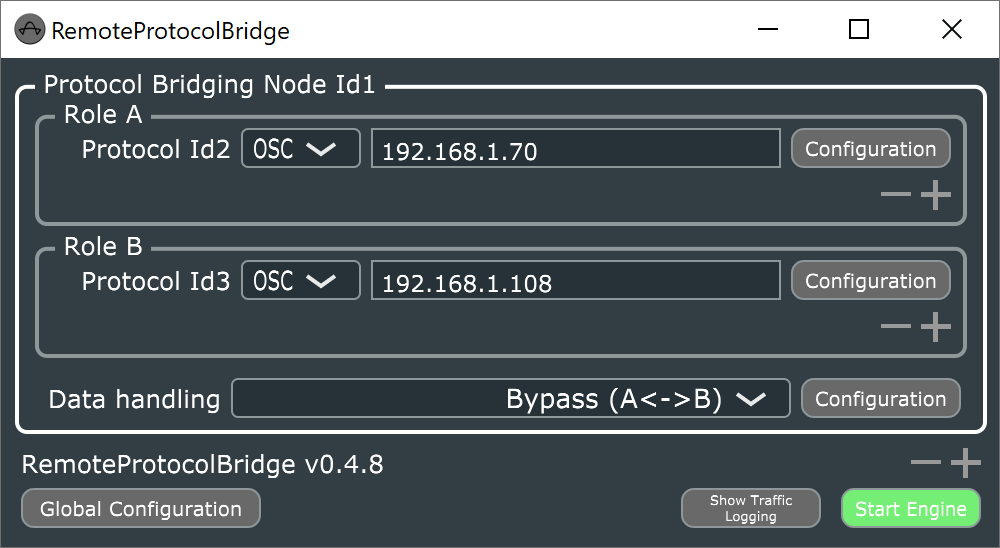
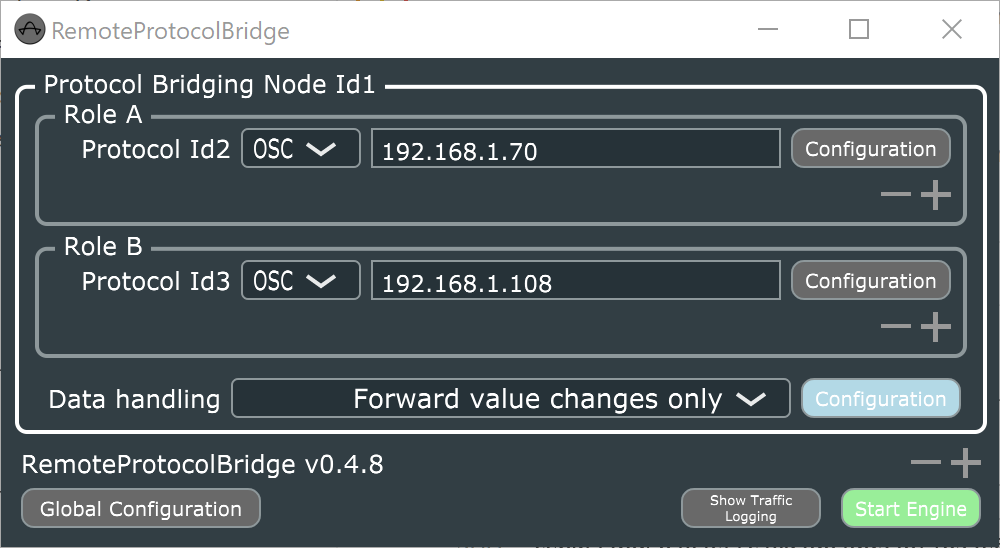
Modified guide content to cover 128ch cascade and dual DS100 failover use cases

diff --git a/README.md b/README.md
@@ -1,4 +1,4 @@
-# d&b Soundscape control with DiGiCo SD Consoles - Generic OSC 
+# **d&b Soundscape control with DiGiCo SD Consoles - Generic OSC**
 
 Copyright (C) 2017-2021, d&b audiotechnik GmbH & Co. KG
 
@@ -10,20 +10,22 @@ By downloading software from this site, you agree to the terms and conditions de
 
 <a name="toc" />
 
-## Table of contents
+## **Table of contents**
 
 * [Introduction](#introduction)
 * [Features](#features)
 * [Requirements](#requirements)
-* [Setting up Generic OSC for d&b Soundscape (stand alone)](#setupDigico)
-* [Enabling bidirectional communication for Generic OSC for Soundscape using the d&b Software bridge](#setupDigicoWithPollingBridge)
-* [Additional functions](#additionalFunctions)
+* [Setting up d&b Soundscape channel control](#setupDigico)
+* [Enabling bidirectional communication for d&b Soundscape channel control using the d&b Software bridge](#setupDigicoWithPollingBridge)
+  * [128 channel DS100 cascading](#128chCascade)
+  * [dual DS100 parallel](#dualDS100parallel)
+* [Additional functionality](#additionalFunctionality)
 * [Known issues](#knownIssues)
 
 
 <a name="introduction" />
 
-## Introduction
+## **Introduction**
 
 d&b Soundscape integration for DiGiCo consoles can be realized with the DiGiCo Generic OSC feature and the d&b Software bridge.
 
@@ -45,23 +47,23 @@ www.dbaudio.com and www.dbsoundscape.com.
 
 <a name="features" />
 
-## Features 
+## **Features**
 
-### Generic OSC functionality with d&b Soundscape
+### **Generic OSC functionality with d&b Soundscape**
 Control of the following d&b Soundscape parameters of the desired sound objects via the the console's channel strips 01-64.
 
 To handle these parameters, they can also be stored and recalled using the scene memory of the console.
 
-### En-Scene object parameters:
+### **En-Scene object parameters:**
 * X position (absolute or relative to a coordinate mapping)
 * Y position (absolute or relative to a coordinate mapping)
 * SPREAD
 * Delay mode
 
-### En-Space object parameters:
+### **En-Space object parameters:**
 * Reverb send level
 
-### Generic OSC functionality extended with the d&b Software bridge for d&b Soundscape
+### **Generic OSC functionality extended with the d&b Software bridge for d&b Soundscape**
 The d&b Software bridge extends the Generic OSC Soundscape integration with bidirectional communication between the DS100 and the console.
 
 The d&b Software bridge constantly polls the values of the parameters described above from the DS100 and sends them back to the DiGiCo Console. This means, the console status is constantly updated even if changes have been made to these object parameters using other controllers like R1, a show control system, touchscreen-devices, or similar.
@@ -71,34 +73,34 @@ As a result, a flexible workflow is maintained even in complex setups.
 
 <a name="requirements" />
 
-## Requirements
+## **Requirements**
 
 * Any DiGiCo SD Console with Generic OSC enabled.
 * d&b DS100 Signal Engine with active En-Scene and / or En-Space license.
 * Console and DS100 Signal Engine connected to the same Ethernet network (to establish OSC communication).
 * For bidirectional communication / workflow: Win or macOS PC running the d&b Software bridge. The PC must be connected to the same network. On Windows OS, the d&b Software bridge “RemoteProtocolbridge” requires installing the Visual C++ Redistributable Packages from Microsoft
 
-### Helpful / necessary documents: 
+### **Helpful / necessary documents:**
 OSC documentation of the DS100 which is available for download from the related DS100 product page at www.dbaudio.com.
 
 
 <a name="setupDigico" />
 
-## Setting up Generic OSC for d&b Soundscape (stand alone)
+## **Setting up d&b Soundscape channel control**
 
-### Set up Generic OSC and connect with DS100:
+### **Set up Generic OSC and connect with DS100:**
 * On the Master screen, select “Setup” and go to “External Control”.
 
-<img src="Resources/Documentation/Images/01.png" alt="DiGiCo Master Screen" width="50%">
+<img src="Resources/Documentation/Screenshots/01.png" alt="DiGiCo Master Screen" width="500px">
 
-### Switch on Generic OSC and select the correct mode for d&b Soundscape control
+### **Switch on Generic OSC and select the correct mode for d&b Soundscape control**
 * Switch Enable External Control to “YES”.
-* Switch Input Channel Controllers to “OSC-generic”.
+* Switch Input Channel Controllers to “d&b”.
 * Switch on “Suppress OSC retransmit” & “Recall with session” if desired …
 
-<img src="Resources/Documentation/Images/02.png" alt="DiGiCo External Control" width="50%">
+<img src="Resources/Documentation/Screenshots/03.png" alt="DiGiCo External Control" width="500px">
 
-### Enter the parameters to establish the connection with the DS100:
+### **Enter the parameters to establish the connection with the DS100:**
 Ensure the DS100 is connected to the same Ethernet network as your Console and their IP addresses and subnet masks are compatible.
 Tap the “add device” button and select “other OSC” from the drop-down list. Enter the values to establish the connection: 
 * Enter a name of your choice.
@@ -108,60 +110,53 @@ Tap the “add device” button and select “other OSC” from the drop-down li
 * Press the “OK”/ return key.
 * Click the red cross in the Enabled column to the right of your entries (a green check mark will appear instead).
 
- <img src="Resources/Documentation/Images/03.png" alt="DiGiCo External Control Detail" width="30%">
 
-### Assign the OSC commands to the rotaries and switches of the External Control window according to how they should control the d&b Soundscape parameters:
-* Click the ”Costumise” button to display an assignment list for 8 rotaries.
-* Assign the parameters of En-Scene and En-Space to the rotaries by entering the OSC commands and values in the OSC column.
+### **Enabling the External Control window for a channel strip of the console:**
 
-<img src="Resources/Documentation/Images/04.png" alt="DiGiCo OSC Cmd Assign" width="30%">
+#### **Channel surface:**
+* Open the Channel Outputs window by clicking the bottom section of the channel strip.
+* Switch on d&b Control and click View.
+* Instead of regular lcr pan control, the d&b Soundscape two dimensional panner is now visible in the channelstrip
 
-The above entries result in the following assignment in the External Control window:
+<img src="Resources/Documentation/Screenshots/04.png" alt="DiGiCo Channelstrip ext ctl enable" width="500px">
 
-<img src="Resources/Documentation/Images/05.png" alt="DiGiCo External Control Assign" width="40%">
+#### **External Control window:**
+* Right-click on the d&b Soundscape control in the channelstrip to bring up the d&b Soundscape window, containing from left to right:
+  * xy Sound Object position fader
+  * Sound Object x position rotary
+  * Sound Object y position rotary
+  * Sound Object Spread factor rotary
+  * Sound Object EnSpace send gain rotary
+  * Sound Object delay mode toggle buttons
+* These values can be controlled by hardware knobs and buttons
+* Right-click on the xy Sound Object position fader to open an enlarged version of the xy position fader combined with spread, delay mode and EnSpace send gain visualization
+* Click on the Object Number button on the right side of the enlarged xy Sound Object position fader window to bring up the Object Number assignment window and choose the Sound Object number, the channelstrip shall control.
+* Click on the Mapping button on the right side of the enlarged xy Sound Object position fader window to bring up the Mapping Area assignment window and choose the mapping area that shall be targeted by the d&b Soundscape control of the channelstrip.
 
-### Comments:
-**Asterix sign:** the /* at the end of the OSC string is replaced by the channel number and refers to the DS100 input channel with the same number. Referring to a channel number which is different from the console’s input channel is not possible (console channel 1 always controls DS100 input channel 1 and console channel 2 controls DS100 input channel 2, etc...).
 
-**Positioning:** It seems useful to use coordinate mapping. The positioning is mapped to one of the areas created in ArrayCalc and configured in R1. The digit before /* defines the targeted area. The value can be 1-4 according to which of the 4 positioning areas/coordinate mappings is targeted. Referring to different positioning areas for a single input channel is not possible.
-
-**DelayMode:** The three available delay modes of En-Scene correspond to the integer values 0-2. Generic OSC sends float values but these can be interpreted by the DS100 and translated accordingly.
-
-It is also possible to control other DS100 parameters with GenericOSC. In this document, we have restricted ourselves to the relevant Soundscape object parameters. 
-The OSC strings for the control of further parameters can be found in the OSC documentation of the DS100.
-
-### Enabling the External Control window for a channel strip of the console:
-#### Channel surface:
-* Open the Channel Out window by clicking the bottom section of the channel strip.
-* Switch on External Control and click View.
-
-<img src="Resources/Documentation/Images/06.png" alt="DiGiCo Channelstrip ext ctl enable" width="50%">
-
-#### External Control window:
-When the External Control window is displayed, the parameters can be changed using the hardware encoders.
-
-<img src="Resources/Documentation/Images/07.png" alt="DiGiCo Channelstrip ext ctl enable" width="50%">
+<img src="Resources/Documentation/Screenshots/05.png" alt="DiGiCo Channelstrip ext ctl enable" width="500px">
 
 
 <a name="setupDigicoWithPollingBridge" />
 
-## Enabling bidirectional communication for Generic OSC for Soundscape using the d&b Software bridge:
+## **Enabling bidirectional communication for d&b Soundscape channel control using the d&b Software bridge:**
 
-### General:
-The OSC protocol does not provide a function that automatically updates the parameter values of an external controller if they have been changed in the controlled device (e.g. by a third device).
+### **General:**
+The OSC protocol specification does not define how value changes in a controlled device are updated and kept in sync in the externall controller.
 
-For this kind of bidirectional communication, the controlling OSC device would have to query and update the parameter values actively and continuously (polling function via OSC). Unfortunately, polling is not possible with DiGiCo Generic OSC.
+For this kind of bidirectional communication, the OSC controller has to read updated values from the controlled device actively at a sufficiently small refresh interval to provide this information e.g. on a software user interface (so called OSC 'polling' functionality). Polling updated device data is not available in DiGiCo d&b Soundscape control.
 
 In order to allow bidirectional communication between DiGiCo consoles and the DS100, a software bridge enabling this functionality for the Soundscape object parameters is provided by d&b.
 
 This provides a workflow in which d&b Soundscape can be operated by a console, the R1 Remote control software and other controllers simultaneously. And the console always "knows" and displays the current parameter state ofthe DS100.
 
-### Different data-flow for bidirectional communication with the Software bridge:
+### **Different data-flow for bidirectional communication with the Software bridge:**
 When using the Software bridge for bidirectional communication with the console, it does not "speak" directly to the DS100, but to the PC running the Software bridge.
 
-The Software bridge passes the communication from the console on to the DS100 and constantly queries the parameters in the DS100 and sends them to the console.
+The Software bridge passes the OSC data traffic from the console on to the DS100 and constantly queries the parameters from the DS100 and sends them to the console.
 
-### Parameters to establish the connection of the Console with the Software bridge
+
+### **Parameters to establish the connection of the Console with the Software bridge**
 Ensure the Console, the PC running the Software bridge and the DS100 are connected to the same Ethernet network and their IP addresses and subnet masks are compatible.
 * Click the “add device” button, select “other OSC” from the drop-down list and enter the values to establish the connection:
 * Enter a name of your choice.
@@ -172,28 +167,31 @@ Ensure the Console, the PC running the Software bridge and the DS100 are connect
 * Press the “OK”/ return key.
 * Click the red cross in the Enabled column to the right of your entries (a green check mark will appear instead).
 
-<img src="Resources/Documentation/Images/09.PNG" alt="Digico Ext Ctl via RPB" width="50%">
+<img src="Resources/Documentation/Screenshots/03.PNG" alt="Digico Ext Ctl via RPB" width="500px">
 
- ### Parameters to establish the connection of the Software bridge with the console and the DS100:
+ ### **Parameters to establish the connection of the Software bridge with the console and the DS100:**
  Ensure the console, the PC running the Software bridge and the DS100 are connected to the same Ethernet network and their IP addresses and subnet masks are compatible.
 
-
-### Connection with the DS100
+### **Connection with the DS100**
 **Role A** for the connection with the DS100: 
 * Enter the IP address of the DS100 in the line edit. The IP address of the DS100 can be obtained from the «Info» tab in the «Device» view in R1 V3.
 * Open the "OSC protocol configuration" communication settings window by clicking the "Configuration" button for Role A the protocol. 
 * Enter the Listening port and the Remote port in the two fields field. (the Remote port is the listening port of the DS100 = 50010; the Listening port is the reply port of the DS100 = 50011)
-* Enable the parameters you want to use by checking the "enable" checkbox to the right of the parameter description (this enables them for polling).
+* Enable the following parameters by checking the "enable" checkbox to the right of the parameter description (this enables them for polling).
+  * Sound Object Position X
+  * Sound Object Position Y
+  * Sound Object Spread
+  * Sound Object Delay Mode
+  * Sound Object Send Gain
 * Enter the channels you want to control by defining a range "1-16" or multiple channel numbers divided by commas "1, 2, 3, 7, 8, 9".
-* For the x and y position parameters, define the coordinate mapping / positioning area by checking the corresp. boxes under "Mapping". This must be the same value you used for the
-“/dbaudio1/coordinatemapping/source_position_x/ & /dbaudio1/coordinatemapping/source_position_y/“
-for Generic OSC on the console.
+* For the x and y position parameters, define the Mapping Areas to be used by checking the corresp. boxes under "Mapping". These must be all Mapping Areas you have used across all channelstrip configurations using d&b Soundscape control on the console.
+* If desired, you can choose a polling interval different from the default 100ms.
 * Finish the configuration of the connection with the DS100 by clicking the OK button in the General configuration window.
 
-<img src="Resources/Documentation/Screenshots/06.PNG" alt="RPB SingleDS100" width="50%">
-<img src="Resources/Documentation/Screenshots/07.PNG" alt="RPB Protocol Cfg" width="40%">
+<img src="Resources/Documentation/Screenshots/06.PNG" alt="RPB SingleDS100" width="500px">
+<img src="Resources/Documentation/Screenshots/07.PNG" alt="RPB Protocol Cfg" width="400px">
 
-### Connection with the Console
+### **Connection with the Console**
 **Role B** for the connection with the Console:
 * Enter the IP address of the console in the line edit.
 * Open the "OSC protocol configuration" communication settings window by clicking the "Configuration" button for the Role B protocol. 
@@ -202,26 +200,76 @@ for Generic OSC on the console.
 * Finish the configuration of the connection with the Console by clicking the OK button in the General configuration window.
 
 
-Assign the OSC commands to the rotaries and switches of the External Remote Window of Generic OSC on the Console in the same way as for operation without the Software bridge.
-
-Please refer to Section 4 “Setting up Generic OSC for d&b Soundscape” of this document.
-
 **Note:** The Software bridge can only handle the following d&b Soundscape object parameters:
 * Position
 * Spread
 * DelayMode
 * En-Space Send Gain.
 
+### **Sound Object Data Handling**
+* Select "Forward value changes only" from the Data handling dropdown to achive that all data that is received from DS100 through polling and that contains changed data values is forwarded to Console.
+* Click the "Configuration" button for Data handling module and select "0.001" as sensibility for value change detection.
+
+<img src="Resources/Documentation/Screenshots/08.PNG" alt="RPB Engine ON" width="500px">
+<img src="Resources/Documentation/Screenshots/09.PNG" alt="RPB Value Change Prec" width="350px">
+
 Start the Software bridge by clicking the “Start Engine” button
 
-<img src="Resources/Documentation/Screenshots/08.PNG" alt="RPB Engine ON" width="50%">
+
+<a name="128chCascade" />
+
+### **Using 128 console channels to control two DS100**
+By choosing the Data handling "Multiplex multiple n-ch. A to m-ch. B protocols", d&b Software bridge can be used to control two DS100 from a single Console to achieve a total maximum of 128 Sound Objects.
+* Add a second DS100 connection by clicking the "+" in **Role A** protocol groupbox.
+* Enter the IP address of the second DS100 in the line edit. The IP address of the DS100 can be obtained from the «Info» tab in the «Device» view in R1 V3.
+* Open the OSC protocol configuration communication settings window for the second DS100 by clicking the "Configuration" button of the just added second Role A the protocol. 
+* Enter the Listening port and the Remote port in the two fields field. (the Remote port is the listening port of the DS100 = 50010; the Listening port is the reply port of the DS100 = 50011).
+* Enable the following parameters by checking the "enable" checkbox to the right of the parameter description (this enables them for polling).
+  * Sound Object Position X
+  * Sound Object Position Y
+  * Sound Object Spread
+  * Sound Object Delay Mode
+  * Sound Object Send Gain
+* Enter the channels you want to control by defining a range "1-16" or multiple channel numbers divided by commas "1, 2, 3, 7, 8, 9" as well as mapping areas. **These channels refer to the second DS100 and map to channels 65-128 in the Console! (1=65 ... 64=128)**
+* Click "Ok" to close the communication settings window.
+* Select "Multiplex multiple n-ch. A to m-ch. B protocols" from the Data handling dropdown.
+* Click on "Configuration" button for Data handling module to open the configuration window specific to this data handling mode.
+* Enter the value 64 for "Ch. count per ProtocolA (n)" that corresponds to the two DS100 configured.
+* Enter the value 128 for "Ch. count per ProtocolB (m)" that corresponds to the Console.
+* Click "Ok" to close the configuration window.
+
+<img src="Resources/Documentation/Screenshots/11.PNG" alt="RPB Engine ON" width="500px">
+<img src="Resources/Documentation/Screenshots/12.PNG" alt="RPB Engine ON" width="400px">
+
+<a name ="dualDS100parallel" />
+
+### **Using manual OSC failover with two DS100**
+By choosing the Data handling "A1 forwarding only (val. changes only)" and switching to the complementary "A2 forwarding only (val. changes only)" in a failover situation, d&b Software bridge can be used to control two DS100 in parallel and use only the data received by polling from one of the DS100. This way, in case the main DS100 fails, switching to the backup DS100 regarding updating data values in the Console can be achieved.
+* Add a second DS100 connection by clicking the "+" in **Role A** protocol groupbox.
+* Enter the IP address of the second DS100 in the line edit. The IP address of the DS100 can be obtained from the «Info» tab in the «Device» view in R1 V3.
+* Open the OSC protocol configuration communication settings window for the second DS100 by clicking the "Configuration" button of the just added second Role A the protocol. 
+* Enter the Listening port and the Remote port in the two fields field. (the Remote port is the listening port of the DS100 = 50010; the Listening port is the reply port of the DS100 = 50011).
+* Enable the following parameters by checking the "enable" checkbox to the right of the parameter description (this enables them for polling).
+  * Sound Object Position X
+  * Sound Object Position Y
+  * Sound Object Spread
+  * Sound Object Delay Mode
+  * Sound Object Send Gain
+* Enter the channels you want to control by defining a range "1-16" or multiple channel numbers divided by commas "1, 2, 3, 7, 8, 9" as well as mapping areas. **These channels must be identical inbetween configurations of both DS100 configured in Role A**
+* Click "Ok" to close the communication settings window.
+* Select "A1 forwarding only (val. changes only)" from the Data handling dropdown to achive that all data that is received from DS100 through polling and that contains changed data values is forwarded to Console.
+* Click the "Configuration" button for Data handling module and select "0.001" as sensibility for value change detection.
+* When the system is running and a situation arises that requires switching from main to backup DS100, select "A2 forwarding only (val. changes only)" while the Software bridge is running.
+
+<img src="Resources/Documentation/Screenshots/14.PNG" alt="RPB Engine ON" width="500px">
+<img src="Resources/Documentation/Screenshots/15.PNG" alt="RPB Engine ON" width="400px">
 
 
-<a name="additionalFunctions" />
+<a name="additionalFunctionality" />
 
-## Additional functions
+## **Additional functionality**
 
-### Protocol Traffic Logging
+### **Protocol Traffic Logging**
 The Software bridge can log and display the network traffic handled.
 
 This function is intended to simplify error analysis.
@@ -237,14 +285,14 @@ For this reason, only use this function for troubleshooting not for normal opera
 * The dropdown in the lower left corner allows toggeling between a traffic plot and a message log.
 * Clicking the "Close" button closes the window.
 
-<img src="Resources/Documentation/Screenshots/10.PNG" alt="RPB Traffic" width="60%">
+<img src="Resources/Documentation/Screenshots/10.PNG" alt="RPB Traffic" width="600px">
 
 
 <a name="knownIssues" />
 
-## Known issues
+## **Known issues**
 
-### Delay mode:
+### **Delay mode:**
 The three available delay modes of En-Scene correspond to the integer values 0-2.
 
 Generic OSC sends and receives float values.
